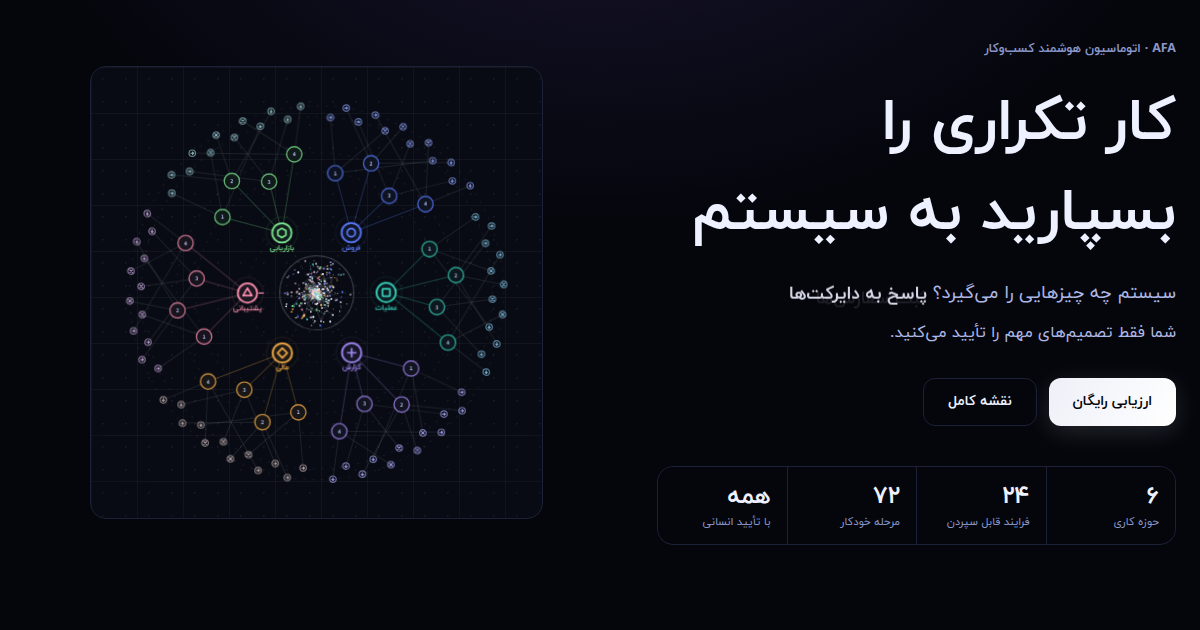
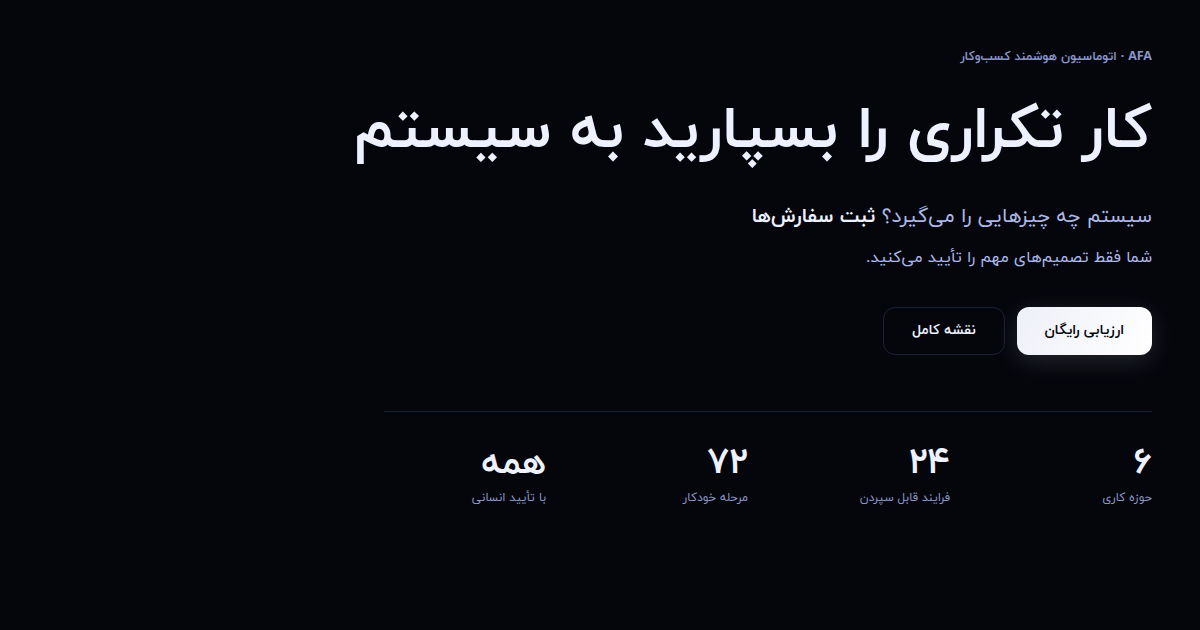
Hero goes text-only on the bare ground; the map moves to its own live section
The owner said the hero must not have a background, twice. The first fix
removed the dot texture; what they meant the second time was everything
behind and beside the type. rasai.ca, the named model, opens with pure
typography on flat black and gives its live dashboard the SECOND slot, not
the first.

So: the hero is now text only. Eyebrow, headline, the rotating job line,
one sentence, the white button, and the structural stats over a single
hairline. The framed map panel is gone from the first screen, and the
body's old violet top halo is deleted outright; the ground is flat
navy-black with nothing on it.

The map did not get smaller, it got its own room: a new LiveMap section
(«نمای زنده») one scroll down, centred, full interactions, exactly the slot
the reference gives its dashboard, with the Pulse console strip directly
beneath it reading as the same instrument.

Claude-Session: https://claude.ai/code/session_015BLkfHjPPSwAr5JaNHyunu

diff --git a/src/components/sections/live-map.tsx b/src/components/sections/live-map.tsx
@@ -1,0 +1,95 @@
+import { useTranslations } from 'next-intl';
+import {
+  CapabilityMap,
+  type CapabilityMapCopy,
+  type DomainCopy,
+  type ProcessCopy,
+} from '@/components/tools/capability-map';
+import { DOMAINS, PROCESS_IDS, type DomainId } from '@/lib/capability-map';
+
+/* -----------------------------------------------------------------------------
+   The live view, straight after the hero; the slot rasai.ca gives its
+   dashboard. The hero is text only, by direct request, so the map lives HERE:
+   one scroll in, full working interactions, the Pulse strip right beneath it
+   reading as the same console.
+
+   Strings resolve on the server and travel as props; the Map catalog never
+   enters the client bundle (the standing rule).
+   -------------------------------------------------------------------------- */
+
+export function LiveMap() {
+  const t = useTranslations('Live');
+  const map = useTranslations('Map');
+  const page = useTranslations('MapPage');
+
+  const domains = Object.fromEntries(
+    DOMAINS.map((domain) => [
+      domain.id,
+      {
+        title: map(`domains.${domain.id}.title`),
+        summary: map(`domains.${domain.id}.summary`),
+        tags: map(`domains.${domain.id}.tags`),
+      } satisfies DomainCopy,
+    ]),
+  ) as Record<DomainId, DomainCopy>;
+
+  const processes = Object.fromEntries(
+    PROCESS_IDS.map((id) => [
+      id,
+      {
+        title: map(`processes.${id}.title`),
+        trigger: map(`processes.${id}.trigger`),
+        decision: map(`processes.${id}.decision`),
+        action: map(`processes.${id}.action`),
+        human: map(`processes.${id}.human`),
+      } satisfies ProcessCopy,
+    ]),
+  ) as Record<string, ProcessCopy>;
+
+  const copy: CapabilityMapCopy = {
+    hub: map('hub'),
+    hubNote: map('hubNote'),
+    viewMap: map('viewMap'),
+    viewList: map('viewList'),
+    viewLabel: map('viewLabel'),
+    reset: map('reset'),
+    close: map('close'),
+    stepTrigger: map('stepTrigger'),
+    stepDecision: map('stepDecision'),
+    stepAction: map('stepAction'),
+    stepHuman: map('stepHuman'),
+    ladderLabel: map('ladderLabel'),
+    figureLabel: map('figureLabel'),
+    directoryLabel: page('directory'),
+    legendLabel: page('legend'),
+    domainsLabel: page('domains'),
+    typeDomain: page('typeDomain'),
+    typeProcess: page('typeProcess'),
+    typeStage: page('typeStage'),
+    typeHuman: page('typeHuman'),
+    backAll: page('backAll'),
+    fullscreen: page('fullscreen'),
+    fullscreenExit: page('fullscreenExit'),
+    statusline: page('statusline'),
+    prevDomain: page('prevDomain'),
+    nextDomain: page('nextDomain'),
+    domains,
+    processes,
+  };
+
+  return (
+    <section id="live" className="scroll-mt-24 border-t border-border py-14 sm:py-20">
+      <div className="mx-auto w-full max-w-[92rem] px-4 sm:px-6">
+        <div className="mx-auto max-w-3xl text-center">
+          <p className="eyebrow">{t('eyebrow')}</p>
+          <h2 className="display mt-4 text-[clamp(1.6rem,3vw,2.3rem)] text-ink">{t('title')}</h2>
+          <p className="mt-3 text-sm leading-relaxed text-muted">{t('hint')}</p>
+        </div>
+
+        <div className="mx-auto mt-10 max-w-5xl">
+          <CapabilityMap copy={copy} variant="hero" />
+        </div>
+      </div>
+    </section>
+  );
+}

diff --git a/src/components/sections/hero.tsx b/src/components/sections/hero.tsx
@@ -1,0 +1,64 @@
+import { useTranslations } from 'next-intl';
+import { Link } from '@/i18n/navigation';
+import { Eyebrow } from '@/components/ui/editorial';
+import { RotatingWords } from '@/components/ui/rotating-words';
+
+/* -----------------------------------------------------------------------------
+   The hero, rasai.ca structure, 2026-08 by direct request and on the second
+   telling: TEXT ONLY on the bare navy-black. No map beside it, no framed
+   panel, no ground texture; the reference's hero is typography, stats and one
+   button, and the live view is its own section BELOW. The motion the owner
+   asked for is the rotating job line; the map brings more the moment the
+   visitor scrolls once.
+   -------------------------------------------------------------------------- */
+
+export function Hero() {
+  const t = useTranslations('Hero');
+
+  const action =
+    'inline-flex min-h-12 items-center justify-center rounded-button px-7 text-sm font-semibold transition-colors';
+
+  return (
+    <section id="top">
+      <div className="mx-auto flex w-full max-w-6xl flex-col justify-center px-4 py-16 sm:px-6 lg:min-h-[calc(88svh-4rem)] lg:py-12">
+        <Eyebrow>{t('eyebrow')}</Eyebrow>
+
+        <h1 className="display-hero mt-5 max-w-4xl text-ink">{t('title')}</h1>
+
+        {/* The moving line. Each word is one block, so joined Persian stays
+            joined; reduced-motion freezes it on the first word. */}
+        <p className="mt-6 text-lg leading-relaxed text-muted sm:text-xl">
+          {t('rotPrefix')}{' '}
+          <RotatingWords words={[t('rot1'), t('rot2'), t('rot3'), t('rot4')]} />
+        </p>
+
+        <p className="mt-3 max-w-xl text-base leading-relaxed text-muted">{t('sub')}</p>
+
+        <div className="mt-9 flex flex-col gap-3 sm:flex-row">
+          <a href="#contact" className={`${action} bg-brand text-bg-950 shadow-brand`}>
+            {t('ctaPrimary')}
+          </a>
+          <Link
+            href="/map"
+            className={`${action} border border-border text-ink hover:border-border-glass`}
+          >
+            {t('ctaSecondary')}
+          </Link>
+        </div>
+
+        {/* The reference's under-hero stats, on numbers we can stand behind:
+            the structure itself. Hairlines only; no card, no ground. */}
+        <dl className="mt-14 grid max-w-3xl grid-cols-2 gap-x-10 gap-y-8 border-t border-border pt-8 sm:grid-cols-4">
+          {(['domains', 'processes', 'stages', 'human'] as const).map((stat) => (
+            <div key={stat}>
+              <dd className="text-3xl font-extrabold tabular-nums text-ink sm:text-4xl">
+                {t(`stats.${stat}.value`)}
+              </dd>
+              <dt className="mt-1.5 text-xs leading-snug text-dim">{t(`stats.${stat}.label`)}</dt>
+            </div>
+          ))}
+        </dl>
+      </div>
+    </section>
+  );
+}

diff --git a/src/styles/globals.css b/src/styles/globals.css
@@ -43,8 +43,10 @@
   --font-en-body: var(--font-en-body);
 }
 
-/* Base page: deep navy with a very faint violet radial halo at the top and a
- * 2% SVG noise layer. The page gradient never gets more colorful (plan §2). */
+/* Base page: the flat navy-black, NOTHING on it. The violet halo that used
+ * to sit at the top of every page died 2026-08 by direct request («هیرو
+ * نباید بکگراند داشته باشه», said twice): the hero is typography on the bare
+ * ground, and any glow behind it reads as a background. */
 @layer base {
   html {
     background-color: var(--bg-950);
@@ -55,15 +57,6 @@
     min-height: 100dvh;
     color: var(--ink);
     background-color: var(--bg-950);
-    /* color-mix keeps the halo tied to --violet. The literal rgba this
-     * replaced was the pre-migration violet (#916dff) and would have quietly
-     * kept the old hue alive after the token moved to #9a6bff. */
-    background-image:
-      radial-gradient(
-        60rem 40rem at 50% -10rem,
-        color-mix(in srgb, var(--violet) 14%, transparent),
-        transparent 60%
-      );
     -webkit-font-smoothing: antialiased;
     text-rendering: optimizeLegibility;
   }

diff --git a/src/app/[locale]/page.tsx b/src/app/[locale]/page.tsx
@@ -1,5 +1,6 @@
 import { setRequestLocale } from 'next-intl/server';
-import { MapHero } from '@/components/sections/map-hero';
+import { Hero } from '@/components/sections/hero';
+import { LiveMap } from '@/components/sections/live-map';
 import { Pulse } from '@/components/sections/pulse';
 import { Services } from '@/components/sections/services';
 import { Work } from '@/components/sections/work';
@@ -27,7 +28,8 @@ export default async function HomePage(props: {
 
   return (
     <>
-      <MapHero />
+      <Hero />
+      <LiveMap />
       <Pulse />
       <Services />
       <Impact />

diff --git a/CLAUDE.md b/CLAUDE.md
@@ -12,11 +12,15 @@ REBUILT 2026-08 on the rasai.ca structure («ras را الگو قرار بدیم
 before/deployed/after — carried in this site's own voice (navy, the map, the
 mono console). One page, the RAS spine:
 
-1. **MapHero**, animated and backgroundless: the working map, the claim
-   («کار تکراری را بسپارید به سیستم»), the ROTATING job line
-   (`ui/rotating-words.tsx`, Lindy's task loop, joined-script-safe), and the
-   reference's proof typography on numbers we can stand behind: the
-   structural counts as a stat strip.
+1. **Hero** (`sections/hero.tsx`), TEXT ONLY on the bare ground; the owner
+   said «هیرو نباید بکگراند داشته باشه» twice, and the second time meant the
+   map panel too. Typography, the ROTATING job line
+   (`ui/rotating-words.tsx`, joined-script-safe), the white primary button,
+   and the structural counts as a hairline stat strip. The body's old violet
+   halo is deleted; the ground is flat.
+1b. **LiveMap** (`sections/live-map.tsx`) — the working map, one scroll in:
+   the slot rasai.ca gives its live dashboard. Same interactions as /map,
+   no rails.
 2. **Pulse** — the operations-console strip: four telemetry lines, one per
    service, ALWAYS tagged «نمونهٔ نمایشی · داده واقعی نیست». The strip earns
    its realism from that tag; removing it turns the section into a fabricated
